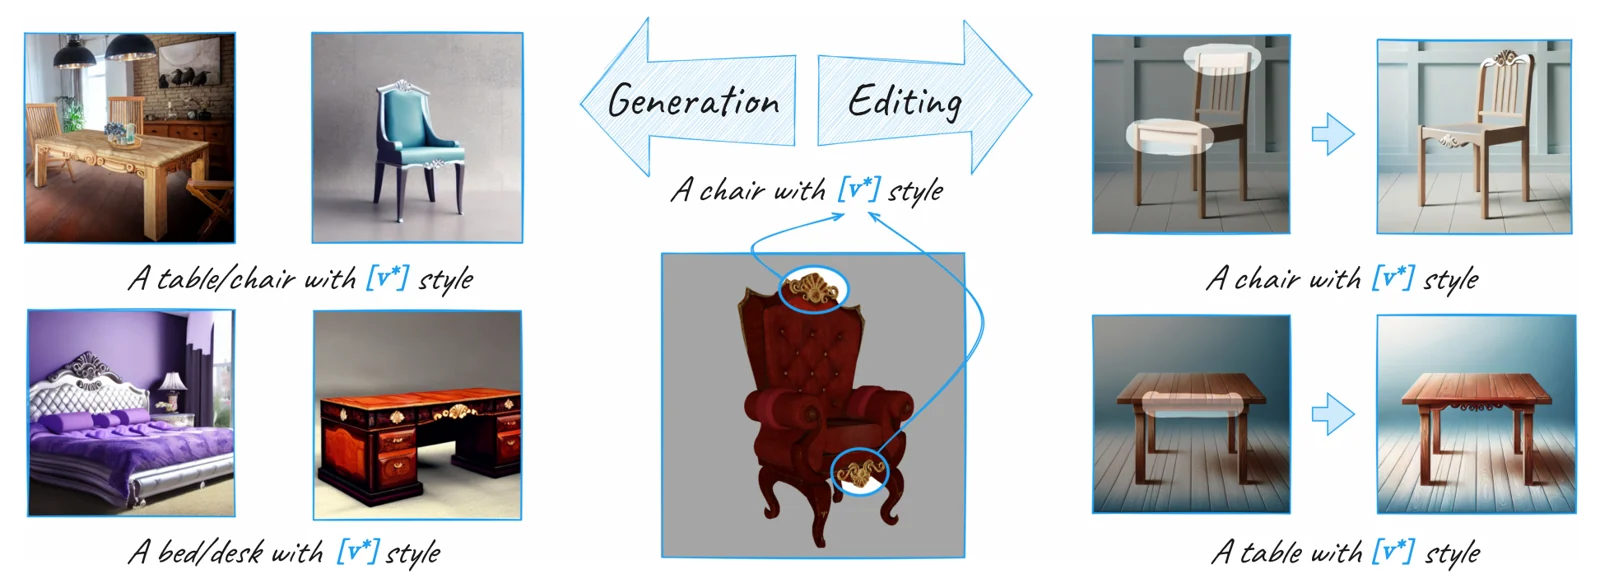
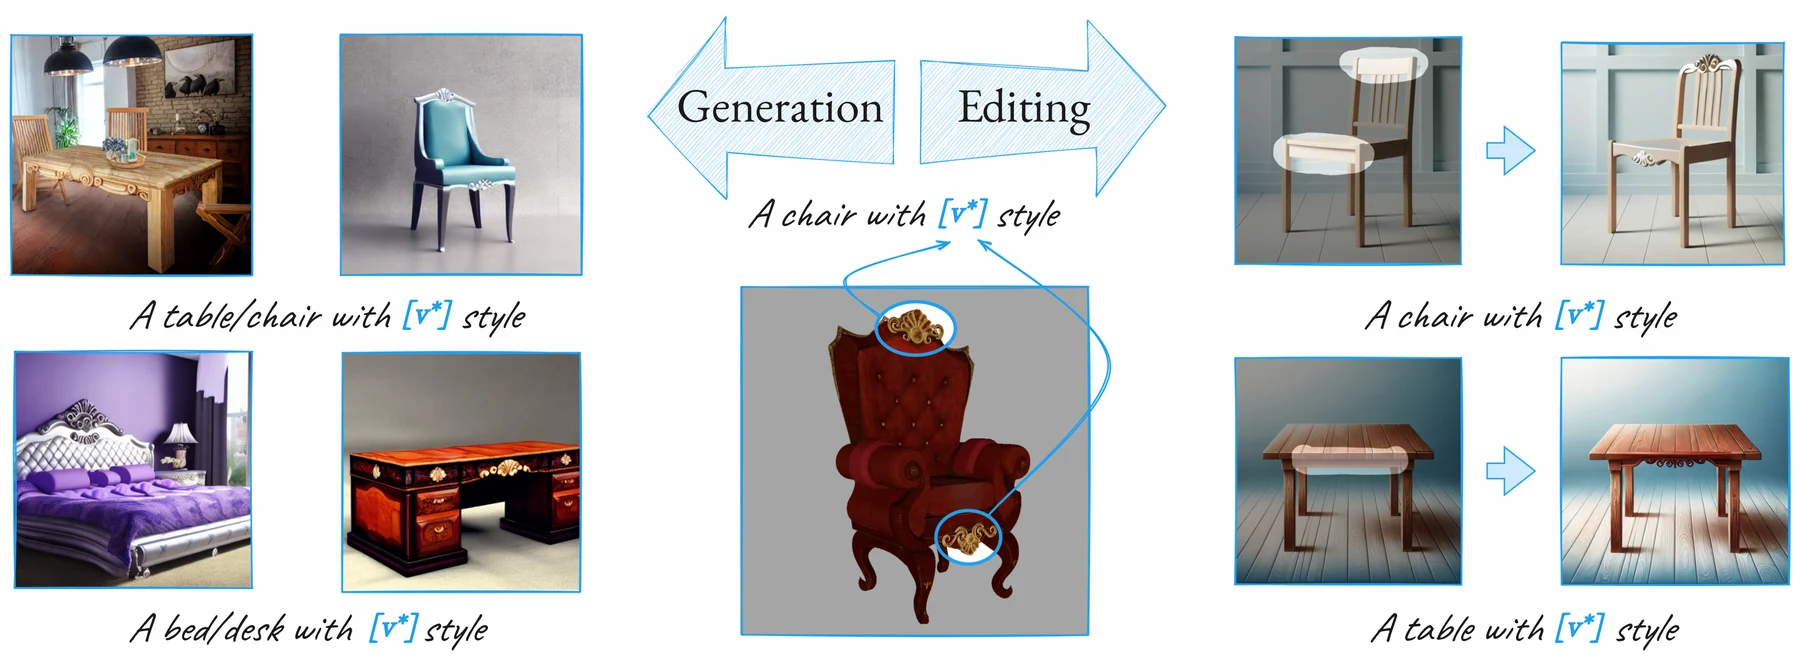
Use latest CLiC teaser

diff --git a/index.html b/index.html
@@ -310,7 +310,7 @@
                   <h3>CLiC: Concept Learning in Context</h3>
                   <p><strong class="publication-author">M. Safaee</strong>, A. Mikaeili, O. Patashnik, D. Cohen-Or, and A. Mahdavi-Amiri.</p>
                   <figure class="publication-teaser">
-                    <img src="assets/publications/clic.webp" width="1600" height="588" alt="CLiC teaser: a local visual concept learned from one image, used for generation and editing" loading="lazy" decoding="async" />
+                    <img src="assets/publications/clic.webp" width="1800" height="661" alt="CLiC teaser: a local visual concept learned from one image, used for generation and editing" loading="lazy" decoding="async" />
                   </figure>
                 </div>
               </article>
